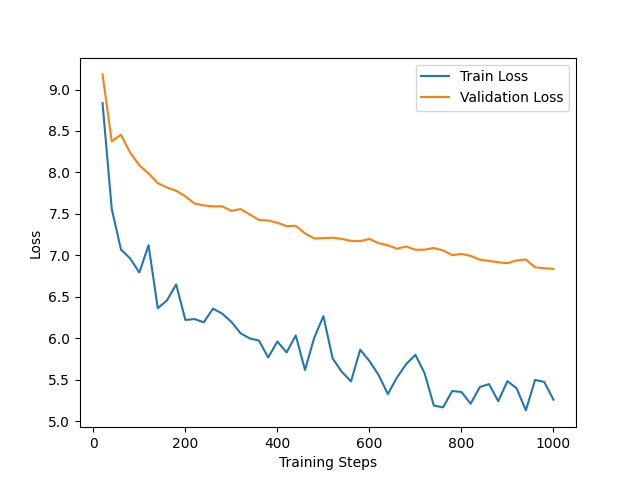
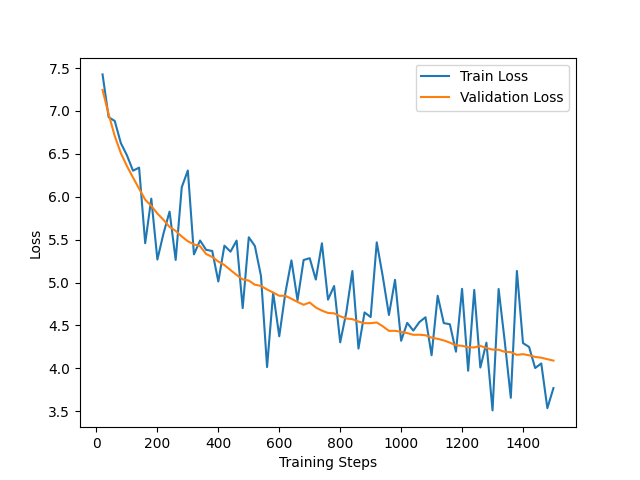
Update for RTX3060 Architecture

diff --git a/src/architecture/execution.py b/src/architecture/execution.py
@@ -2,7 +2,7 @@ import torch
 import itertools
 
 from .tokenizer import SECRegexTokenizer
-from .dataset import EDGARDataset
+from .dataset import EDGARDataset, StreamingEDGARDataset
 
 import tiktoken
 
@@ -141,6 +141,36 @@ def create_dataloaders(train_tokens, val_tokens, config, cores):
 
     return train_dataloader, val_dataloader
 
+def create_streaming_dataloaders(train_stream, val_stream, config):
+    
+    # Initialize tokenizer here instead of doing it in a separate prep step
+    encoding = tiktoken.get_encoding("gpt2")
+    vocab_size = encoding.n_vocab
+
+    # Hugging Face streams need to be shuffled using a buffer, 
+    # since we don't have the whole dataset to shuffle at once.
+    train_stream = train_stream.shuffle(buffer_size=10000, seed=42)
+
+    train_dataset = StreamingEDGARDataset(train_stream, config["context_length"], encoding)
+    
+    train_dataloader = torch.utils.data.DataLoader(
+        train_dataset,
+        batch_size=config["batch_size"],
+        # shuffle=True is INVALID for IterableDatasets (handled by HF buffer above)
+        num_workers=0, # Keep at 0 for streaming to avoid data duplication across threads
+        pin_memory=True                
+    )
+
+    val_dataset = StreamingEDGARDataset(val_stream, config["context_length"], encoding)
+    val_dataloader = torch.utils.data.DataLoader(
+        val_dataset,
+        batch_size=config["batch_size"],
+        num_workers=0,
+        pin_memory=True
+    )
+
+    return train_dataloader, val_dataloader, vocab_size, encoding
+
 
 def train(model, train_loader, val_loader, optimizer, config, device, eval_every=100, num_epochs=1, max_steps=1500):
 
@@ -175,6 +205,68 @@ def train(model, train_loader, val_loader, optimizer, config, device, eval_every
                 print(f"Epoch {epoch} | Step {step} | Train loss: {train_loss:.4f} | Val loss: {val_loss:.4f}")
 
             if step >= max_steps:
+                print(f"Reached max_steps ({max_steps}). Stopping training early.")
+                return train_losses, val_losses
+
+    return train_losses, val_losses
+
+import torch
+
+def train_efficient(model, train_loader, val_loader, optimizer, config, device, scheduler=None, eval_every=100, num_epochs=1, max_steps=1500, accumulation_steps=8):
+
+    # Training Loop
+    step = 0
+    actual_step = 0 # Tracks actual weight updates
+    train_losses, val_losses = [], []
+    
+    # Initialize gradients to zero before starting
+    optimizer.zero_grad() 
+
+    for epoch in range(num_epochs):
+
+        for X, y in train_loader:
+            step += 1
+
+            # tensor.to(device, non_blocking=True) starts moving stuff to the GPU in
+            # the background and goes on to the next line of code
+            X, y = X.to(device, non_blocking=True), y.to(device, non_blocking=True)
+
+            # Automatic Mixed Precision (bfloat16 works great on RTX 3000 series)
+            # casts parameters into optimized dtypes for computational efficiency
+            with torch.autocast(device_type="cuda", dtype=torch.bfloat16):
+                logits = model(X).view(-1, config["vocab_size"])
+                loss = torch.nn.functional.cross_entropy(logits, y.view(-1))
+                
+                # Scale the loss down by accumulation steps
+                loss = loss / accumulation_steps
+
+            # Back propagation (accumulates gradients, doesn't overwrite them yet)
+            loss.backward() 
+
+            # Only update weights after accumulating enough gradients
+            if step % accumulation_steps == 0:
+                # Gradient clipping to prevent exploding gradients (crucial for Transformers)
+                torch.nn.utils.clip_grad_norm_(model.parameters(), max_norm=1.0)
+                
+                optimizer.step() # Update parameters
+                
+                if scheduler is not None:
+                    scheduler.step() # Update learning rate
+                
+                optimizer.zero_grad() # Reset Gradients for the next batch
+                actual_step += 1
+
+            # Evaluation happens based on actual weight updates, not just forward passes
+            if step % (eval_every * accumulation_steps) == 0:
+                val_loss = estimate_loss(model, val_loader, device)
+                val_losses.append(val_loss)
+                # Multiply by accumulation_steps to get the true scale of the loss for printing
+                train_loss = loss.item() * accumulation_steps 
+                train_losses.append(train_loss)
+                print(f"Epoch {epoch} | Update Step {actual_step} | Train loss: {train_loss:.4f} | Val loss: {val_loss:.4f}")
+
+            # Stop based on actual weight updates
+            if actual_step >= max_steps:
                 print(f"Reached max_steps ({max_steps}). Stopping training early.")
                 return train_losses, val_losses
 

diff --git a/src/main.py b/src/main.py
@@ -8,65 +8,79 @@ import datasets
 import matplotlib.pyplot as plt
 import torch # PyTorch tensor library
 import torch._dynamo
-torch._dynamo.config.suppress_errors = True
+
 
 from architecture.model import GPTModel 
 
 from architecture.execution import (
+    create_streaming_dataloaders,
     generate_text,
     prepare_data,
     prepare_data_tiktoken,
     create_dataloaders,
-    train
+    train,
+    train_efficient
 )
-
-torch.set_float32_matmul_precision('high')
-
-# seeding random numbers for reproducibility
-random.seed(42)
-torch.manual_seed(42)
-
-device = "cuda" if torch.cuda.is_available() else "cpu"  # choose device
-print("Using device:", device)
-
-CONFIG = {
-    "vocab_size": 0,
-    "context_length": 256,
-    "emb_dim": 256,
-    "n_heads": 8,
-    "n_layers": 4,
-    "drop_rate": 0.1,
-    "qkv_bias": True,
-    "batch_size": 12,
-    "learning_rate": 5e-4,
-    "max_steps": 1000
-}
-
-print("Config:", CONFIG)
-
 
 def main():
 
+    ### Config & Seeding ###
+
+    torch._dynamo.config.suppress_errors = True
+    torch.set_float32_matmul_precision('high')
+
+    # seeding random numbers for reproducibility
+    random.seed(42)
+    torch.manual_seed(42)
+
+    device = "cuda" if torch.cuda.is_available() else "cpu"  # choose device
+    print("Using device:", device)
+
+    CONFIG = {
+        "vocab_size": 0,
+        "context_length": 256,
+        "emb_dim": 384,
+        "n_heads": 8,
+        "n_layers": 6,
+        "drop_rate": 0.1,
+        "qkv_bias": True,
+        "batch_size": 16,
+        "learning_rate": 5e-4,
+        "max_steps": 1500
+    }
+
+    print("Config:", CONFIG)
+
     ### Download Dataset ###
 
-    year_1993_training_dataset, year_1993_test_dataset = datasets.load_dataset(
+    # Load the full corpus using streaming (without the 'split' argument)
+    dataset_streams = datasets.load_dataset(
         "eloukas/edgar-corpus",
-        "year_1993",
-        split=["train","test"],
-        trust_remote_code=True
+        "full",
+        trust_remote_code=True,
+        streaming=True 
     )
+
+    # Extract the individual streams from the dictionary
+    train_stream = dataset_streams["train"]
+    val_stream = dataset_streams["test"]
 
     ### Tokenize Dataset ###
 
-    all_train_tokens, all_val_tokens, tokenizer, vocab_size = prepare_data_tiktoken(year_1993_training_dataset, year_1993_test_dataset)
-    # all_train_tokens, all_val_tokens, tokenizer, vocab_size = prepare_data(year_1993_training_dataset, year_1993_test_dataset)
-    
+    # all_train_tokens, all_val_tokens, tokenizer, vocab_size = prepare_data_tiktoken(full_training_dataset, full_test_dataset)
+    # all_train_tokens, all_val_tokens, tokenizer, vocab_size = prepare_data(full_training_dataset, full_test_dataset)
+
+    train_dataloader, val_dataloader, vocab_size, tokenizer = create_streaming_dataloaders(
+        train_stream, val_stream, CONFIG
+    )    
+
+
     CONFIG["vocab_size"] = vocab_size
     print(f"Updated CONFIG: {CONFIG}")
 
     ### Initialize Dataloaders ###
 
-    train_dataloader, val_dataloader = create_dataloaders(all_train_tokens, all_val_tokens, CONFIG, cores=8)
+    # train_dataloader, val_dataloader = create_dataloaders(all_train_tokens, all_val_tokens, CONFIG, cores=8)
 
     ### Initialize Model & Optimzer ###
 
@@ -81,13 +95,14 @@ def main():
 
     EVAL_EVERY = 20
 
-    train_losses, val_losses = train(
+    train_losses, val_losses = train_efficient(
         model=model,
         train_loader=train_dataloader,
         val_loader=val_dataloader,
         optimizer=optimizer,
         config=CONFIG,
         device=device,
+        accumulation_steps=8,
         eval_every=EVAL_EVERY,
         num_epochs=1,
         max_steps=CONFIG["max_steps"]

diff --git a/src/generate.py b/src/generate.py
@@ -1,0 +1,75 @@
+import torch
+import tiktoken
+from architecture.model import GPTModel
+from architecture.execution import generate_text
+# Import whatever function you used to get your tokenizer
+# from architecture.execution import get_tokenizer 
+
+def main():
+    # 1. Set up device
+    device = "cuda" if torch.cuda.is_available() else "cpu"
+    print(f"Using device: {device}")
+
+    # 2. Define the configuration
+    # CRITICAL: This must exactly match the config used during training.
+    # You must replace YOUR_VOCAB_SIZE with the actual integer printed 
+    # during your training run.
+    CONFIG = {
+        "vocab_size": 50257, # <--- UPDATE THIS to match your trained vocab size
+        "context_length": 256,
+        "emb_dim": 384,
+        "n_heads": 8,
+        "n_layers": 6,
+        "drop_rate": 0.1,
+        "qkv_bias": True,
+        "batch_size": 16,
+        "learning_rate": 5e-4,
+        "max_steps": 1500
+    }
+
+    # 3. Initialize the model architecture
+    print("Initializing model...")
+    model = GPTModel(CONFIG)
+
+    # 4. Load the saved weights
+    # map_location ensures it loads correctly whether you are on CPU or GPU
+    model_path = "milestone_2_model.pth"
+    model.load_state_dict(torch.load(model_path, map_location=device, weights_only=True))
+    model.to(device)
+    
+    # Set the model to evaluation mode (disables dropout, affects layernorm)
+    model.eval() 
+    print("Model loaded successfully!")
+
+    # 5. Initialize your tokenizer
+    # You must initialize the EXACT same tokenizer used in main.py
+    # tokenizer = ... 
+    tokenizer = tiktoken.get_encoding("gpt2")
+
+    # 6. Generate Text
+    prompts = [
+        "Item 1. Business: The Company is engaged in ",
+        "Management's Discussion and Analysis of Financial Condition and ",
+        "This prospectus contains forward-looking statements that involve "
+    ]
+
+    print("\n--- Generating Text ---")
+    
+    # torch.no_grad() speeds up inference by disabling gradient tracking
+    with torch.no_grad():
+        for p in prompts:
+            # Note: adjust encode/decode logic depending on your specific tokenizer's API
+            input_ids = tokenizer.encode(p) 
+            input_tensor = torch.tensor([input_ids], dtype=torch.long).to(device)
+
+            # Generate tokens
+            output_tensor = generate_text(model, input_tensor, max_new_tokens=40)
+            
+            # Decode the output
+            generated_text = tokenizer.decode(output_tensor[0].tolist())
+
+            print(f"Prompt: {p}")
+            print(f"Output: {generated_text}\n")
+
+if __name__ == "__main__":
+    main()

diff --git a/src/architecture/dataset.py b/src/architecture/dataset.py
@@ -14,3 +14,30 @@ class EDGARDataset(torch.utils.data.Dataset):
         x = torch.tensor(chunk[:-1], dtype=torch.long)
         y = torch.tensor(chunk[1:], dtype=torch.long)
         return x, y
+
+class StreamingEDGARDataset(torch.utils.data.IterableDataset):
+    def __init__(self, hf_stream, context_length, tokenizer_encoding):
+        self.hf_stream = hf_stream
+        self.context_length = context_length
+        self.encoding = tokenizer_encoding
+
+    def __iter__(self):
+        buffer = []
+        # Pull documents from the stream one by one
+        for example in self.hf_stream:
+            text = example['section_1']
+            
+            # Tokenize on the fly
+            tokens = self.encoding.encode(text)
+            buffer.extend(tokens)
+
+            # Once we have enough tokens for a full context window, yield them
+            while len(buffer) > self.context_length:
+                chunk = buffer[:self.context_length + 1]
+                x = torch.tensor(chunk[:-1], dtype=torch.long)
+                y = torch.tensor(chunk[1:], dtype=torch.long)
+                
+                yield x, y
+                
+                # Remove used tokens from the buffer (non-overlapping chunks)
+                buffer = buffer[self.context_length:]
